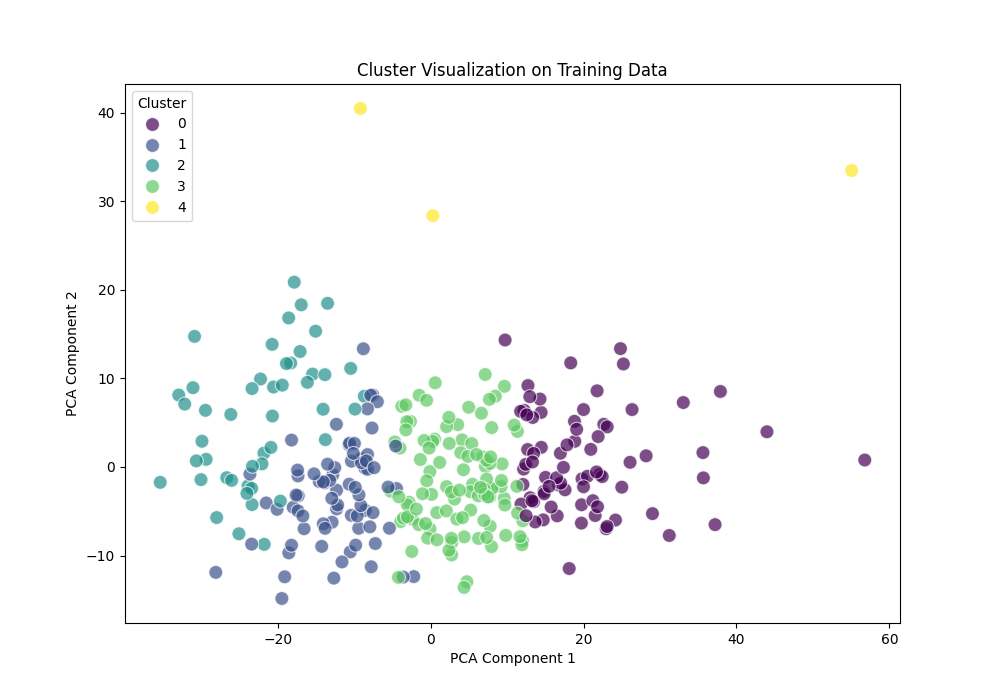
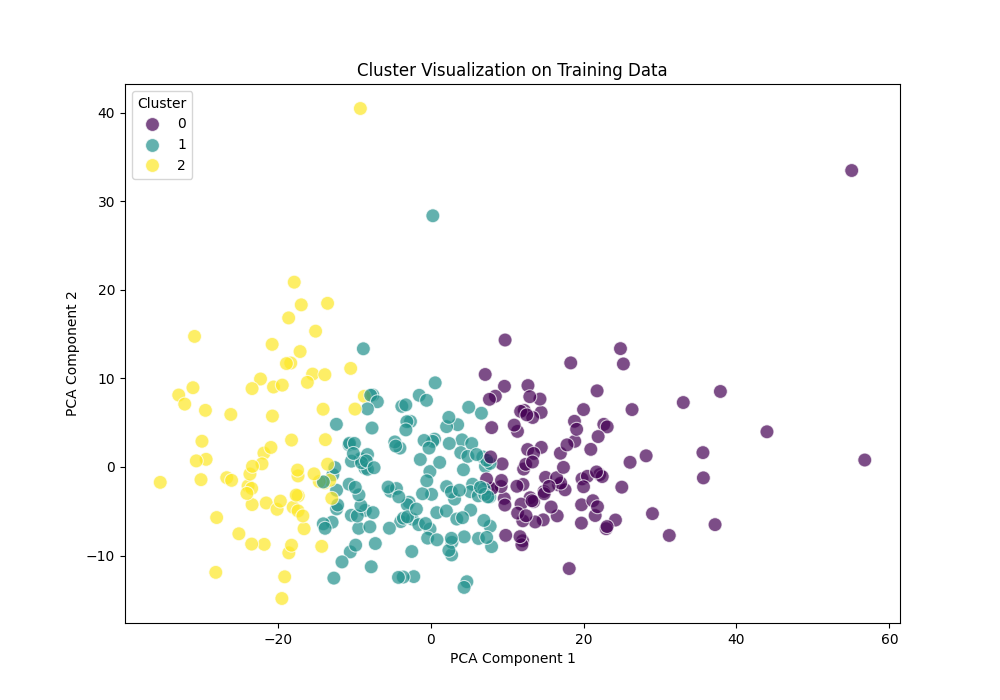
Add cluster evaluation results and new data files for agglomerative clustering. Update KMeans elbow plot saving method and change default K value for KMeans evaluation.

diff --git a/wf_ml_evaluation_agglomerative.py b/wf_ml_evaluation_agglomerative.py
@@ -1,0 +1,249 @@
+# Evaluates Agglomerative Clustering by computing Silhouette Score and Calinski-Harabasz Index.
+# Saves evaluation results to the evaluation/ folder.
+
+import os
+import logging
+
+import numpy as np
+import pandas as pd
+import seaborn as sns
+import matplotlib.pyplot as plt
+
+from sklearn.decomposition import PCA   
+from sklearn.cluster import AgglomerativeClustering
+from sklearn.metrics import silhouette_score, calinski_harabasz_score
+from scipy.cluster.hierarchy import dendrogram, linkage
+from scipy.spatial.distance import euclidean, squareform, cdist
+
+
+import wf_config as config
+from wf_ml_training import plot_elbow
+
+
+def evaluate_agglomerative_clustering(n_clusters=[3,4,5], distance_matrix=None):
+    """
+    Evaluate the Agglomerative Clustering model and generate metrics for multiple cluster sizes.
+
+    Args:
+        n_clusters_list (list): A list of cluster sizes to evaluate.
+        distance_matrix (np.ndarray): Optional precomputed distance matrix for clustering.
+    """
+    results = []
+    for n_clusters_value in n_clusters:
+        config.log_section(f"Evaluating Agglomerative Clustering with {n_clusters_value} clusters")
+        logging.info("Loading data for clustering...")
+
+        if distance_matrix is None:
+            # Load training features if no distance matrix is provided
+            train_features_path = config.TRAIN_FEATURES_NPY
+            train_features = np.load(train_features_path)
+        else:
+            train_features = distance_matrix
+
+        # Perform Agglomerative Clustering
+        logging.info(f"Performing Agglomerative Clustering with n_clusters={n_clusters_value}...")
+        if distance_matrix is not None:
+            model = AgglomerativeClustering(n_clusters=n_clusters_value, metric="precomputed", linkage="average")
+        else:
+            model = AgglomerativeClustering(n_clusters=n_clusters_value, metric="euclidean", linkage="ward")
+        train_labels = model.fit_predict(train_features)
+
+        # Evaluate clustering
+        silhouette_train = silhouette_score(train_features, train_labels, metric="precomputed" if distance_matrix is not None else "euclidean")
+        ch_train = calinski_harabasz_score(train_features, train_labels)
+
+        logging.info(f"Silhouette Score on Training Set: {silhouette_train}")
+        logging.info(f"Calinski-Harabasz Index on Training Set: {ch_train}")
+
+        # Save cluster assignments
+        train_labels_path = os.path.join(config.TRAIN_CLUSTERS_CSV.replace(".csv", f"_{n_clusters_value}_clusters.csv"))
+        pd.DataFrame(train_labels, columns=["Cluster"]).to_csv(train_labels_path, index=False)
+        logging.info(f"Cluster assignments for training set saved to: {train_labels_path}")
+
+        # Save evaluation results
+        evaluation_results = {
+            "n_clusters": n_clusters_value,
+            "silhouette_score": silhouette_train,
+            "calinski_harabasz_score": ch_train,
+        }
+        results.append(evaluation_results)
+        config.log_section(f"{n_clusters_value} clusters: Agglomerative Clustering Evaluation")
+        print(f"\nEvaluation Results for {n_clusters_value} clusters: {evaluation_results}\n")
+
+    # Save results to summary file
+    summary_file_path = os.path.join(config.EVALUATION_FOLDER, "agglomerative_summary.txt")
+    with open(summary_file_path, "w") as f:
+        for result in results:
+            f.write(f"n_clusters={result['n_clusters']}, Silhouette Score={result['silhouette_score']}, "
+                    f"CH Index={result['calinski_harabasz_score']}\n")
+    logging.info(f"Evaluation summary saved to: {summary_file_path}")
+
+    return results
+
+
+def plot_dendrogram(train_features, method="ward", title="Dendrogram for Hierarchical Clustering"):
+    """
+    Plot a dendrogram for the hierarchical clustering.
+    """
+    config.log_section("Generating dendrogram...")
+    logging.info(f"Plotting dendrogram using {method} linkage...")
+    
+    # Convert to condensed format
+    condensed_distance_matrix = squareform(train_features)
+    linkage_matrix = linkage(condensed_distance_matrix, method=method)
+
+    plt.figure(figsize=(16, 12))
+    dendrogram(linkage_matrix)
+    plt.title(title)
+    plt.xlabel("Sample Index")
+    plt.ylabel("Distance")
+    plt.xticks(rotation=90)  # Rotate x-axis labels for better readability
+    save_path = os.path.join(config.EVALUATION_FOLDER, "Hierarchical_Clustering_Dendrogram.png")
+    plt.savefig(save_path)
+    print(f"Dendrogram saved to: {save_path}")
+    plt.close()
+
+
+def visualize_clusters(features, labels, title="Hierarchical Cluster Visualization"):
+    """
+    Visualize the clusters in 2D using PCA.
+    
+    Args:
+        features (np.ndarray): The high-dimensional feature array.
+        labels (np.ndarray): The cluster labels.
+        title (str): The title of the plot.
+    """
+
+    # Reduce dimensions using PCA
+    pca = PCA(n_components=2)
+    reduced_features = pca.fit_transform(features)
+
+    # Create a DataFrame for seaborn
+    df = pd.DataFrame(reduced_features, columns=["PCA1", "PCA2"])
+    df["Cluster"] = labels
+
+    # Scatter plot using seaborn
+    plt.figure(figsize=(10, 7))
+    sns.scatterplot(data=df, x="PCA1", y="PCA2", hue="Cluster", palette='viridis', s=100, alpha=0.7)
+    plt.title(title)
+    plt.xlabel("PCA Component 1")
+    plt.ylabel("PCA Component 2")
+    save_path = os.path.join(config.EVALUATION_FOLDER, "Hierarchical_Cluster_Visualization.png")
+    # plt.savefig(save_path)
+    # logging.info(f"Cluster visualization plot saved to: {save_path}")
+    plt.close()
+
+
+def custom_distance(record1, record2, feature_weights=None):
+    """
+    Computes a custom distance metric between two records.
+    
+    Args:
+        record1 (pd.Series): The first record (row from a DataFrame).
+        record2 (pd.Series): The second record (row from a DataFrame).
+        feature_weights (dict): A dictionary mapping feature names to weights (optional).
+        
+    Returns:
+        float: The calculated distance between record1 and record2.
+    """
+    # Initialize distance
+    distance = 0.0
+
+    # Define features for custom handling
+    numeric_features = [
+        'original_price_INR', 
+        'percentage_of_original_price', 
+        'discounted_price_INR',
+        'dlc_available', 
+        'awards_count', 
+        'overall_positive_review_percentage', 
+        'overall_review_count',
+        'mean_compound', 
+        'mean_positive', 
+        'mean_negative', 
+        'mean_neutral', 
+        'mean_engagement_ratio',
+        'mean_playtime_percentile_review', 
+        'mean_playtime_percentile_total', 
+        'mean_votes_up', 
+        'mean_votes_funny',
+        'mean_weighted_vote_score', 
+        'median_playtime_at_review', 
+        'mean_review_length', 
+        'mean_word_count'
+    ]
+    # Define the boolean features
+    boolean_features = ['age_restricted']
+    
+    tfidf_features = [col for col in record1.index if col.startswith('genres_tfidf_') or col.startswith('categories_tfidf_')]
+
+    # Compute distances
+    for feature in numeric_features:
+        weight = feature_weights.get(feature, 1.0) if feature_weights else 1.0
+        distance += weight * (record1[feature] - record2[feature]) ** 2
+
+    for feature in boolean_features:
+        weight = feature_weights.get(feature, 1.0) if feature_weights else 1.0
+        distance += weight * (record1[feature] != record2[feature])  # Binary distance
+
+    for feature in tfidf_features:
+        weight = feature_weights.get(feature, 1.0) if feature_weights else 1.0
+        distance += weight * (record1[feature] - record2[feature]) ** 2
+
+    # Return the square root to get the Euclidean distance
+    return np.sqrt(distance)
+
+
+def compute_distance_matrix(features, metric='euclidean'):
+    """
+    Compute a pairwise distance matrix using an optimized approach.
+
+    Args:
+        features (np.ndarray): The input feature matrix.
+        metric (str): The distance metric to use (default is 'euclidean').
+
+    Returns:
+        np.ndarray: A 2D distance matrix.
+    """
+    config.log_section("Computing Pairwise Distance Matrix")
+    if not isinstance(features, np.ndarray):
+        features = np.array(features)
+
+    logging.info(f"Computing pairwise distance matrix using {metric} metric...")
+    # Use scipy's cdist for efficient pairwise distance computation
+    distance_matrix = cdist(features, features, metric=metric)
+    logging.info(f"Distance matrix completed. Final shape: {distance_matrix.shape}")
+    return distance_matrix
+
+
+def main():
+    # Load the training dataset
+    train_features_path = config.TRAIN_FEATURES_NPY
+    train_features = np.load(train_features_path)  # Use standardized training features
+
+    # Compute distance matrix
+    distance_matrix = compute_distance_matrix(train_features)
+
+    # Plot Dendrogram
+    plot_dendrogram(distance_matrix, method="ward")
+
+    # Plot elbow 
+    plot_elbow(features=distance_matrix, max_clusters=20, save_as='agglomerative')
+
+    # Evaluate Agglomerative Clustering
+    model, train_labels, evaluation_results = evaluate_agglomerative_clustering(
+        distance_matrix=distance_matrix
+    )
+
+    # Visualize clusters in 2D
+    visualize_clusters(
+        features=train_features,  # Use original feature space for PCA visualization
+        labels=train_labels, 
+    )
+
+
+
+
+
+if __name__ == "__main__":
+    main()

diff --git a/wf_ml_evaluation_kmeans.py b/wf_ml_evaluation_kmeans.py
@@ -262,12 +262,12 @@ def main():
     # Train and evaluate alternative models
     train_and_evaluate_alternative_models() # default k values to test are [3, 4, 5]
 
-    k_value_to_use = 5 # Update based on elbow method plot
+    k_value_to_use = 3 # Update based on elbow method plot
     model_filename = f'kmeans_model_k{k_value_to_use}.pkl'
     # Evaluate the model
     evaluation_results = evaluate_kmeans_model(model_to_use=model_filename)
 
-    plot_elbow(np.load(config.TRAIN_FEATURES_NPY)) # Plot the elbow method for KMeans
+    plot_elbow(np.load(config.TRAIN_FEATURES_NPY), save_as='KMeans') # Plot the elbow method for KMeans
 
     # Evaluate specific predictions
     evaluate_predictions(model_to_use=model_filename)

diff --git a/wf_ml_training.py b/wf_ml_training.py
@@ -153,7 +153,7 @@ def train_kmeans_model(k, train_features):
     return kmeans
 
 
-def plot_elbow(features, max_clusters=20):
+def plot_elbow(features, max_clusters=20, save_as=None):
     """
     Plot the elbow method for determining the optimal number of clusters.
 
@@ -175,7 +175,7 @@ def plot_elbow(features, max_clusters=20):
     plt.xlabel("Number of Clusters")
     plt.ylabel("Inertia")
     plt.grid()
-    plt.savefig(os.path.join(config.EVALUATION_FOLDER, "KMeans Elblow plot.png"))
+    plt.savefig(os.path.join(config.EVALUATION_FOLDER, f"{save_as}_Elblow_plot.png"))
     # plt.show()
 
 

diff --git a/wf_ml_evaluation.py b/wf_ml_evaluation.py
@@ -13,6 +13,7 @@ from sklearn.decomposition import PCA
 
 import wf_ml_training as training
 import wf_ml_evaluation_kmeans as kmeans_eval
+import wf_ml_evaluation_agglomerative as agglomerative_eval
 import wf_config as config
 
 
@@ -105,6 +106,9 @@ def main():
     
     # Visualize clusters and cluster sizes
     visualize_clusters_and_sizes()  
+
+    # Run evaluation of the Agglomerative models
+    agglomerative_eval.main()
 
 
 if __name__ == "__main__":
